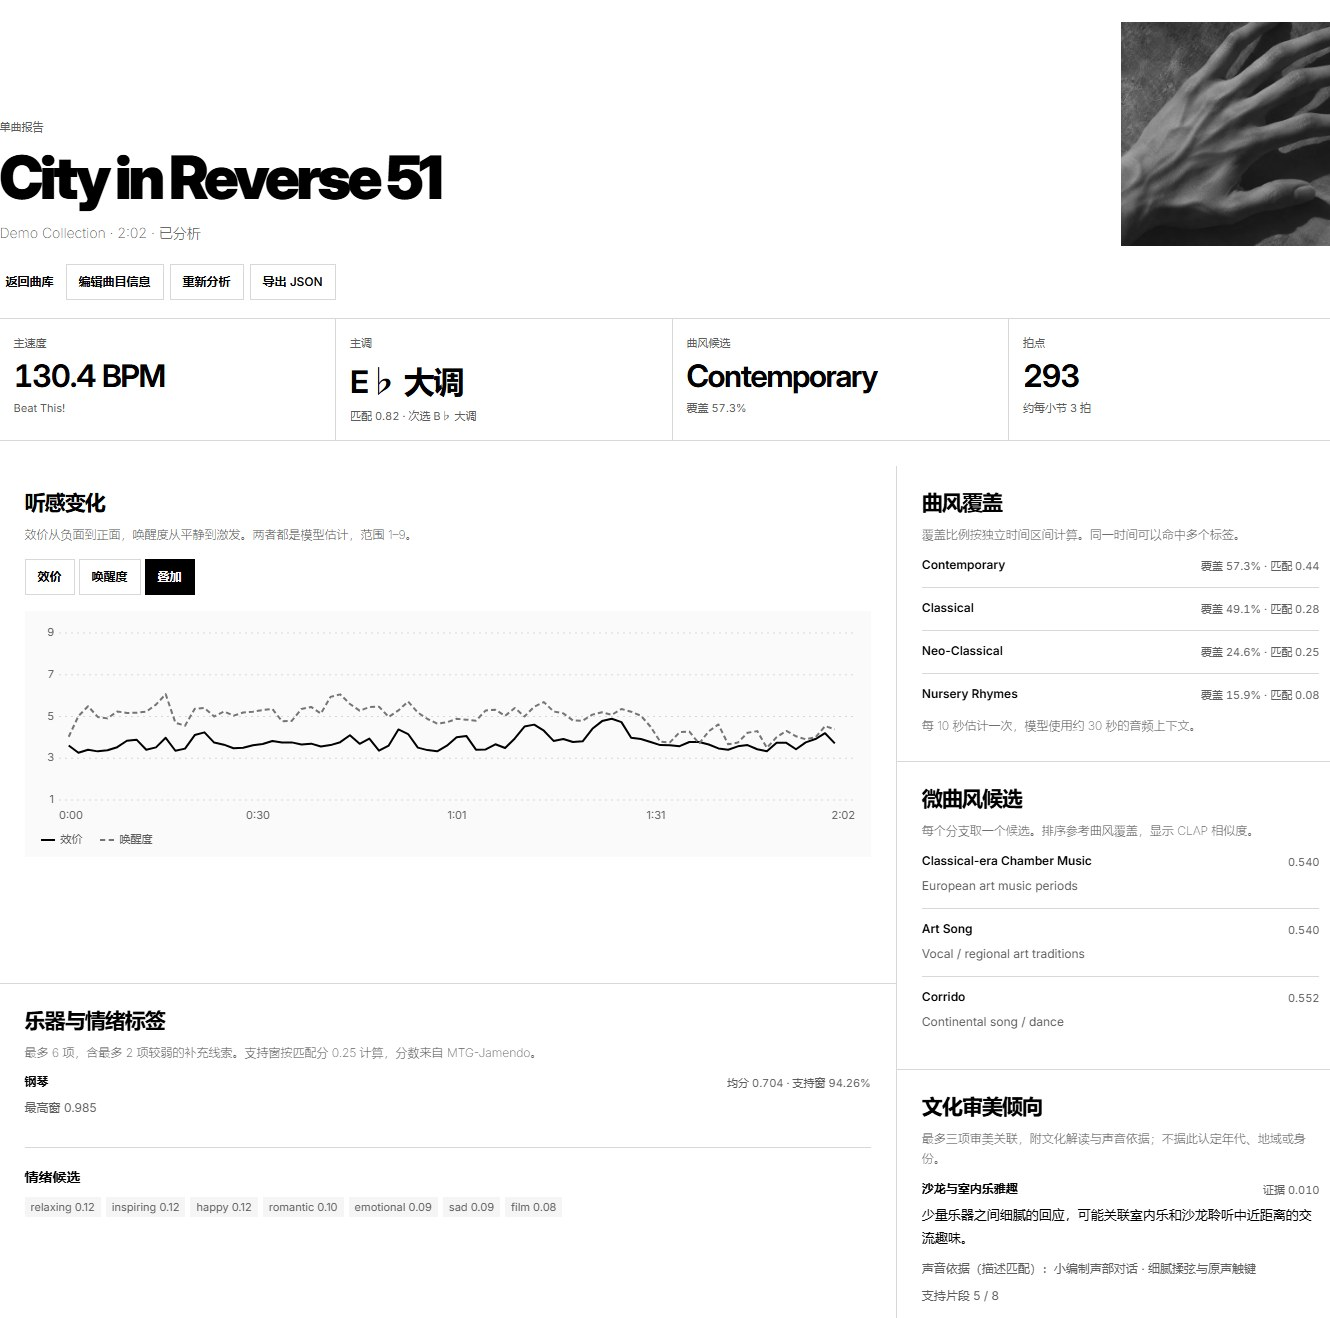
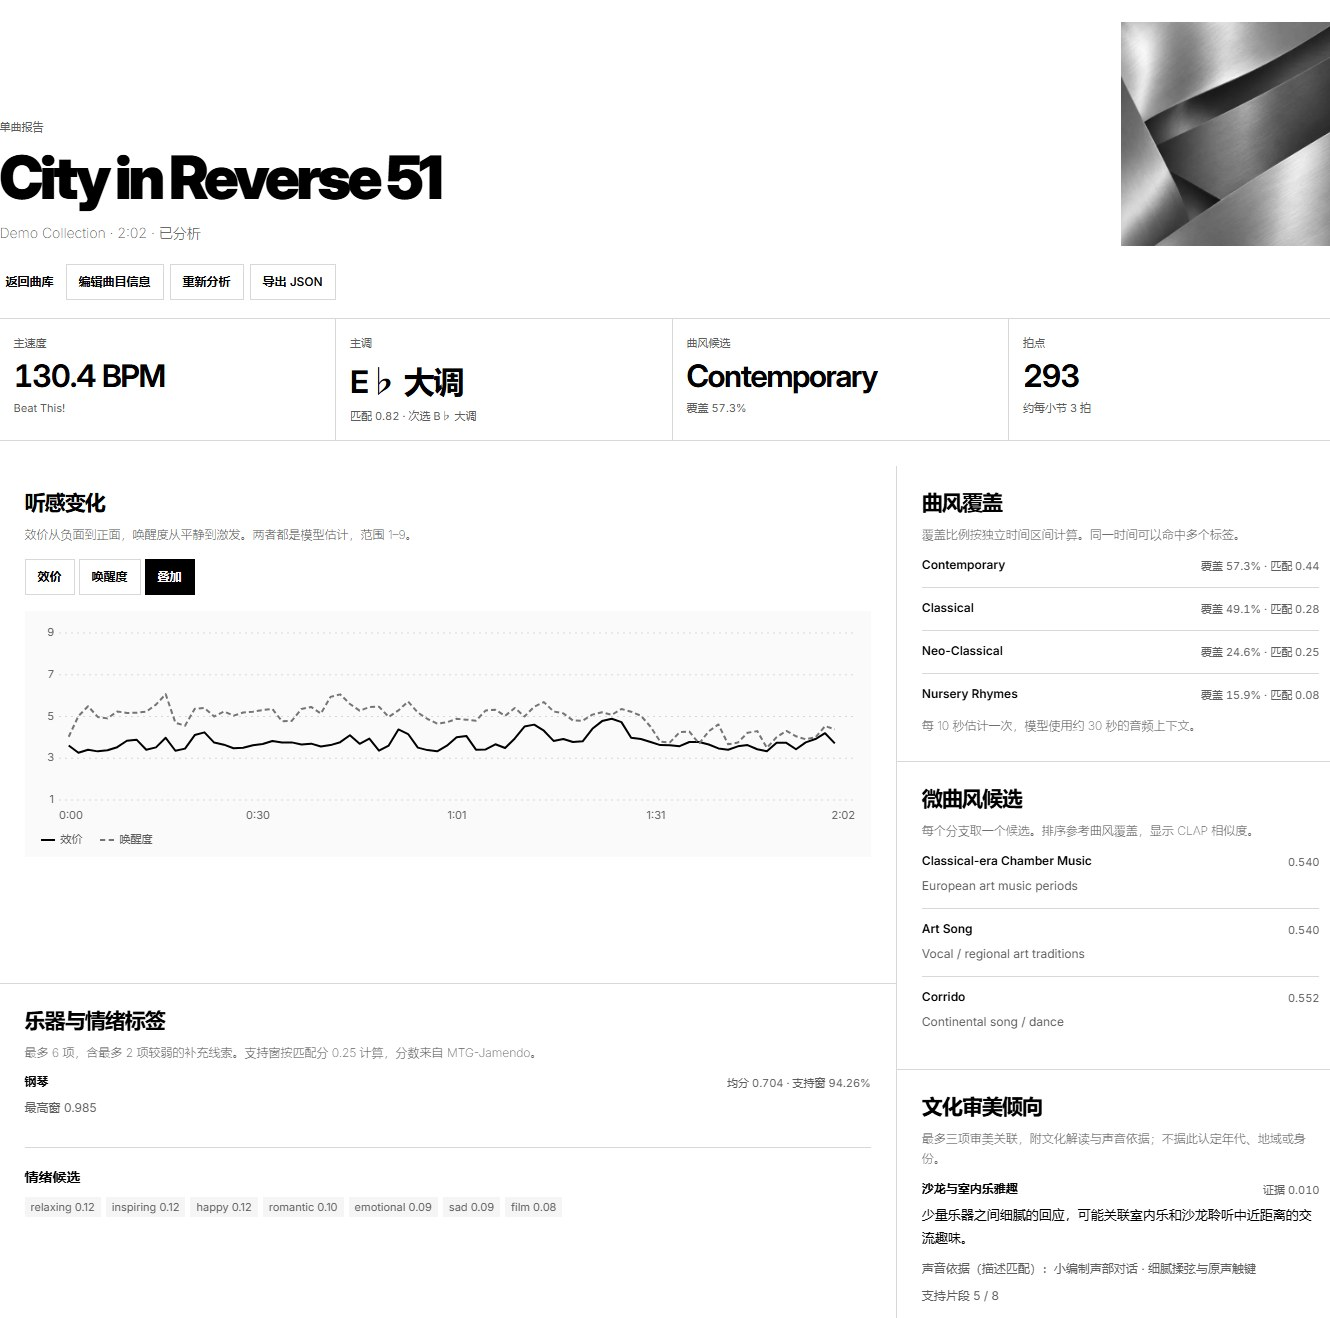
Remove hand cover and add eight archival print-inspired artworks

Changed region(s): [[0.8323, 0.0, 1.0, 0.1866]]

diff --git a/music_analysis/web/app.js b/music_analysis/web/app.js
@@ -10,7 +10,9 @@ const importButtons = [$("choose-files"), $("choose-folder")];
 const reducedMotion = matchMedia("(prefers-reduced-motion: reduce)");
 const statuses = { queued: "等待分析", running: "分析中", done: "已分析", error: "分析失败" };
 const sleeveArt = ["01-botanical-shadow", "02-ocean-nocturne", "03-mountain-mist", "04-ivory-bloom",
-  "05-ink-drift", "06-human-gesture", "07-city-after-rain", "08-heron-flight", "09-cobalt-interlock", "10-silver-facets"];
+  "05-ink-drift", "07-city-after-rain", "08-heron-flight", "09-cobalt-interlock", "10-silver-facets",
+  "11-indigo-herbarium", "12-stone-halftone", "13-silver-afterglow",
+  "14-branch-impressions", "15-tidal-print", "16-lunar-archive", "17-eroded-ridges", "18-window-afterimage"];
 const sleeveSlots = new Map();
 const sleeveCounts = sleeveArt.map(() => 0);
 let noticeTimer, pendingPlayhead, playbackFallback = false, lastListRequest = 0, summaryRequest = 0;

diff --git a/music_analysis/web/index.html b/music_analysis/web/index.html
@@ -6,9 +6,9 @@
   <meta name="local-token" content="__LOCAL_TOKEN__">
   <title>音乐分析</title>
   <link rel="preload" href="/assets/InterVariable.woff2" as="font" type="font/woff2" crossorigin>
-  <link rel="stylesheet" href="/assets/styles.css?v=cover-collection-10">
+  <link rel="stylesheet" href="/assets/styles.css?v=cover-collection-17">
   <script src="/assets/i18n.js?v=culture-aesthetics-2" defer></script>
-  <script src="/assets/app.js?v=cover-collection-10" defer></script>
+  <script src="/assets/app.js?v=cover-collection-17" defer></script>
 </head>
 <body>
   <header class="topbar">

diff --git a/docs/cover-art.md b/docs/cover-art.md
@@ -1,26 +1,33 @@
-# 十款装饰封套
+# 十七款装饰封套
 
-这套封套使用内置 imagegen 工具生成，共十款。构图采用满版裁切与克制配色，题材包含自然、人物局部、都市摄影、流体和两款几何材质。封套仅用于视觉区分，不参与音乐分析，也不代表歌曲真实专辑或曲风。
+这套封套使用内置 imagegen 工具生成，共十七款。构图采用满版裁切与克制配色，题材包含自然、都市摄影、流体、几何材质及八款参考早期封套的版画与光影作品。封套仅用于视觉区分，不参与音乐分析，也不代表歌曲真实专辑或曲风。
 
-![十款封套总览，按编号从左到右、从上到下排列。](images/cover-collection.jpg)
+![十七款封套总览，按清单顺序从左到右、从上到下排列。](images/cover-collection.jpg)
 
 1. **叶影**：[01-botanical-shadow.webp](../music_analysis/web/sleeves/01-botanical-shadow.webp)
 2. **潮汐**：[02-ocean-nocturne.webp](../music_analysis/web/sleeves/02-ocean-nocturne.webp)
 3. **山岚**：[03-mountain-mist.webp](../music_analysis/web/sleeves/03-mountain-mist.webp)
 4. **花序**：[04-ivory-bloom.webp](../music_analysis/web/sleeves/04-ivory-bloom.webp)
 5. **墨流**：[05-ink-drift.webp](../music_analysis/web/sleeves/05-ink-drift.webp)
-6. **触感**：[06-human-gesture.webp](../music_analysis/web/sleeves/06-human-gesture.webp)
-7. **夜雨**：[07-city-after-rain.webp](../music_analysis/web/sleeves/07-city-after-rain.webp)
-8. **掠羽**：[08-heron-flight.webp](../music_analysis/web/sleeves/08-heron-flight.webp)
-9. **群青**：[09-cobalt-interlock.webp](../music_analysis/web/sleeves/09-cobalt-interlock.webp)
-10. **银折**：[10-silver-facets.webp](../music_analysis/web/sleeves/10-silver-facets.webp)
+6. **夜雨**：[07-city-after-rain.webp](../music_analysis/web/sleeves/07-city-after-rain.webp)
+7. **掠羽**：[08-heron-flight.webp](../music_analysis/web/sleeves/08-heron-flight.webp)
+8. **群青**：[09-cobalt-interlock.webp](../music_analysis/web/sleeves/09-cobalt-interlock.webp)
+9. **银折**：[10-silver-facets.webp](../music_analysis/web/sleeves/10-silver-facets.webp)
+10. **蓝晒**：[11-indigo-herbarium.webp](../music_analysis/web/sleeves/11-indigo-herbarium.webp)
+11. **岩印**：[12-stone-halftone.webp](../music_analysis/web/sleeves/12-stone-halftone.webp)
+12. **余光**：[13-silver-afterglow.webp](../music_analysis/web/sleeves/13-silver-afterglow.webp)
+13. **枝影**：[14-branch-impressions.webp](../music_analysis/web/sleeves/14-branch-impressions.webp)
+14. **潮痕**：[15-tidal-print.webp](../music_analysis/web/sleeves/15-tidal-print.webp)
+15. **月印**：[16-lunar-archive.webp](../music_analysis/web/sleeves/16-lunar-archive.webp)
+16. **山蚀**：[17-eroded-ridges.webp](../music_analysis/web/sleeves/17-eroded-ridges.webp)
+17. **窗迹**：[18-window-afterimage.webp](../music_analysis/web/sleeves/18-window-afterimage.webp)
 
 ## 生成提示词
 
-以下为最终选用的提示词。01–08 使用共同提示 A，09–10 使用共同提示 B；每次生成的完整提示为相应共同提示与该款题材提示两段拼接。
+以下为最终选用的提示词。文件名前缀 01–08 使用共同提示 A（06 已移除），09–10 使用共同提示 B，11–13 使用共同提示 C，14–18 使用共同提示 D；每次生成的完整提示为相应共同提示与该款题材提示两段拼接。
 
 <details>
-<summary>共同提示 A：自然、人物与都市题材</summary>
+<summary>共同提示 A：自然与都市题材</summary>
 
 ```text
 Create one original SQUARE album-cover artwork for a sophisticated modern music gallery. Full-bleed, visually rich composition: the recognizable subject and its organic details extend through the ENTIRE frame and are cropped naturally at the edges. Tight immersive framing, strong focal structure, subtle fine-art photographic grain, controlled contrast and a restrained harmonious palette. Contemporary, elegant, clear, with enough layered detail to reward looking closely. Every region participates; no tiny isolated object, no large blank background, no empty upper half. The subject here is natural or photographic, not an abstract geometric sculpture, paper-fold relief or arrangement of blocks. This is the artwork itself, no album mockup. No text, typography, letters, numbers, logos, watermark, frame, montage or grids.
@@ -83,15 +90,6 @@ Organic sumi-black ink suspended in water, photographed extremely close as dense
 </details>
 
 <details>
-<summary>06-human-gesture · 触感</summary>
-
-```text
-An intimate fine-art photographic study of one adult human hand and its shadow, viewed close enough that the wrist enters one edge and relaxed gracefully spread fingers extend toward and beyond the opposite edges. The hand itself occupies most of the composition; warm desaturated skin texture, subtle creases, soft side light and a deep graphite shadow create a strong organic silhouette. Anatomically correct single hand with five fingers, no extra limbs, no jewelry, no props, no face. Restrained warm monochrome, elegant and expressive, not clinical.
-```
-
-</details>
-
-<details>
 <summary>07-city-after-rain · 夜雨</summary>
 
 ```text
@@ -123,6 +121,98 @@ Deep ultramarine-blue circular segments, broad chalk-white paper strips and a si
 
 ```text
 A tightly cropped architectural composition made entirely of folded satin-brushed aluminum planes. Four large diagonal silver and charcoal facets meet and overlap, filling the frame with crisp seams, muted reflections and deep narrow shadows. Some folds exit every image edge. Restrained monochrome luxury, beautiful physical material, no central small metal object.
+```
+
+</details>
+
+<details>
+<summary>共同提示 C：参考最初六张的印刷与光影风格</summary>
+
+```text
+Use case: stylized-concept. Asset: one original SQUARE full-bleed album-cover artwork. The supplied six-panel image is a STYLE REFERENCE ONLY: borrow the tactile print textures, artistic layering, botanical/photographic fragments and rhythmic abstract gestures, without copying a panel or returning a collage of covers. Generate ONE complete square artwork. Bring the reference toward a quieter independent-record and fine-art print sensibility: restrained, mature, slightly archival, beautifully composed, with subtle paper grain and analogue imperfection. Keep the picture visually full, with large overlapping elements and detail extending off the edges; no tiny object on a blank field, no empty upper half. Avoid the reference's loud neon, highly saturated pop styling, rainbow chrome and slick futuristic CGI. No people, hands, lettering, logos, watermark, decorative frame or grid.
+```
+
+</details>
+
+<details>
+<summary>11-indigo-herbarium · 蓝晒</summary>
+
+```text
+Ink-blue botanical photogram / vintage cyanotype print on warm ivory rag paper. Large wildflower seedheads, delicate branching stems and soft fern shadows overlap from edge to edge, with slight imperfect ink registration and rich contact-print detail. Combine recognizable organic forms with broad soft shadow masses, more like a refined independent record sleeve than a decorative botanical poster. Palette limited to desaturated midnight-indigo, smoke blue-grey and warm cream. No orange dot, no generic geometric icon, no blank margins.
+```
+
+</details>
+
+<details>
+<summary>12-stone-halftone · 岩印</summary>
+
+```text
+A tactile monochrome-and-rust screenprint composition combining large close-cropped geological stone surfaces, soft photographic shadow fragments, a few oversized circular print impressions and irregular paper edges. The natural rock image must remain clearly present so this is not merely geometric abstraction. Subtle coarse-to-fine halftone dots and tiny misregistered ink marks create analogue rhythm across the entire square. Use charcoal, warm grey, bone white and a small deep oxidized-red accent. Full-frame layered graphic composition, sophisticated and calm, no acidic yellow, violet pop colors or optical tunnel.
+```
+
+</details>
+
+<details>
+<summary>13-silver-afterglow · 余光</summary>
+
+```text
+A silver-gelatin photographic double exposure of wind-blown reeds and shimmering dark river water, crossed by two or three broad, soft long-exposure traces of warm ivory light. Recognizable fine organic reed silhouettes and water reflections remain under the flowing traces. Crop closely so the organic rhythm and light movement continue off every edge, no empty black corner. The mood is slow, tactile and quietly musical, closer to an archival experimental photograph than a neon poster. Palette charcoal, silver-grey, bone white and only a faint muted copper warmth. No literal glowing ring, rainbow metal, paper ribbons or 3D sculpture.
+```
+
+</details>
+
+<details>
+<summary>共同提示 D：延续纸感与网印风格</summary>
+
+参考图为本套的蓝晒、岩印、余光三张。
+
+```text
+Use case: stylized-concept. Create ONE original SQUARE full-bleed album-cover artwork. The three supplied images are STYLE REFERENCES ONLY: retain their archival independent-record-sleeve sensibility, tactile rag-paper texture, analogue photographic layering, cyanotype/screenprint grain, soft imperfect ink registration and quiet organic light traces. Do not reproduce one of the images, and do not return a triptych or grid. Make the composition visually full: large overlapping forms, natural photographic fragments and restrained graphic masses extend off every edge, with no tiny isolated object, no large blank upper half and no empty margins. Mature, artistic and slightly archival; subtle asymmetry and controlled tonal depth. Restrained desaturated color, no neon, acid colors, rainbow chrome, slick futuristic CGI or shiny generic 3D sculpture. No people, hands, text, lettering, numbers, logos, watermark or border.
+```
+
+</details>
+
+<details>
+<summary>14-branch-impressions · 枝影</summary>
+
+```text
+A full-frame analogue print built from large bare tree branches and fine leaf shadows, double-exposed over a softly visible woodland edge and textured warm-ivory paper. Branches sweep across the entire square with a few broad smoky grey ink masses, delicate botanical details and subtle ghosted registration. The scene should remain recognizable as wood and trees, with a thoughtful screenprinted photographic rhythm. Palette charcoal, muted olive-grey, warm cream and a very small faded ochre undertone.
+```
+
+</details>
+
+<details>
+<summary>15-tidal-print · 潮痕</summary>
+
+```text
+A close-cropped coastal photogravure collage: dark seaweed silhouettes, pale tide foam, rippled water and a broad weathered shore fragment overlap naturally across the square. Fine halftone grain and gently torn paper transitions unify the layers; the eye follows one sweeping organic tidal gesture. Natural coastal detail is recognizable, but the overall artwork is spare and deliberate. Muted petrol-blue, slate-grey, bone white and a trace of faded rust. No empty sky, no clean geometric discs.
+```
+
+</details>
+
+<details>
+<summary>16-lunar-archive · 月印</summary>
+
+```text
+An archival lunar photogram and print composition. A huge softly edged moon surface with visible crater-like texture is cropped beyond the top and right edges, overlapping smoky photographic cloud shadows and two broad imperfect ink impressions. Fine screenprint dots, rubbed charcoal texture and subtle paper grain cover the full frame. The celestial surface should feel tactile and discovered in an old photographic archive, not futuristic space art or a simple flat circle on empty paper. Palette charcoal, warm bone white, faded blue-grey and a tiny muted brick-red registration accent.
+```
+
+</details>
+
+<details>
+<summary>17-eroded-ridges · 山蚀</summary>
+
+```text
+A richly layered but restrained full-frame mountain photogravure. Large weathered ridges and stone strata cross diagonally through the square, with misty photographic mountain fragments, delicate etched contour-like marks, coarse-to-fine halftone texture and narrow soft ivory light leaks between layers. Keep recognizable geological imagery and a mature independent-record-cover composition, no decorative map labels or literal geometric blocks. Palette warm grey, soft charcoal, ivory and dry desaturated clay.
+```
+
+</details>
+
+<details>
+<summary>18-window-afterimage · 窗迹</summary>
+
+```text
+A quiet archival double-exposure photograph of an old window and its reflected leafy branches, rendered as a tactile fine-art print. Cropped window shadows, rain-softened glass, thin plant silhouettes and a gentle warm light trace overlap across the entire square. The architecture is a photographic fragment rather than clean graphic rectangles; subtle soft-focus and imperfect ink transfer unify the organic and urban details. Palette smoke-grey, ink-black, warm cream and faint dusty copper. No readable signage, people, neon or empty wall.
 ```
 
 </details>

diff --git a/THIRD_PARTY_NOTICES.md b/THIRD_PARTY_NOTICES.md
@@ -25,5 +25,5 @@
 ## 字体与视觉素材
 
 - **Inter**：Copyright (c) The Inter Project Authors，SIL Open Font License 1.1。字体文件随本仓库提供，完整许可见 [Inter-LICENSE.txt](music_analysis/web/Inter-LICENSE.txt)。
-- **装饰封套**：本项目使用内置 imagegen 工具生成的十款满版装饰图，随应用用于界面展示。它们不对应真实歌曲或唱片的专辑封面。完整提示词与文件见[封套说明](docs/cover-art.md)。
+- **装饰封套**：本项目使用内置 imagegen 工具生成的十七款满版装饰图，随应用用于界面展示。它们不对应真实歌曲或唱片的专辑封面。完整提示词与文件见[封套说明](docs/cover-art.md)。
 - **README 截图**：来自本应用界面，曲名、艺人、批次名称已匿名化；不包含或分发音乐音频。
